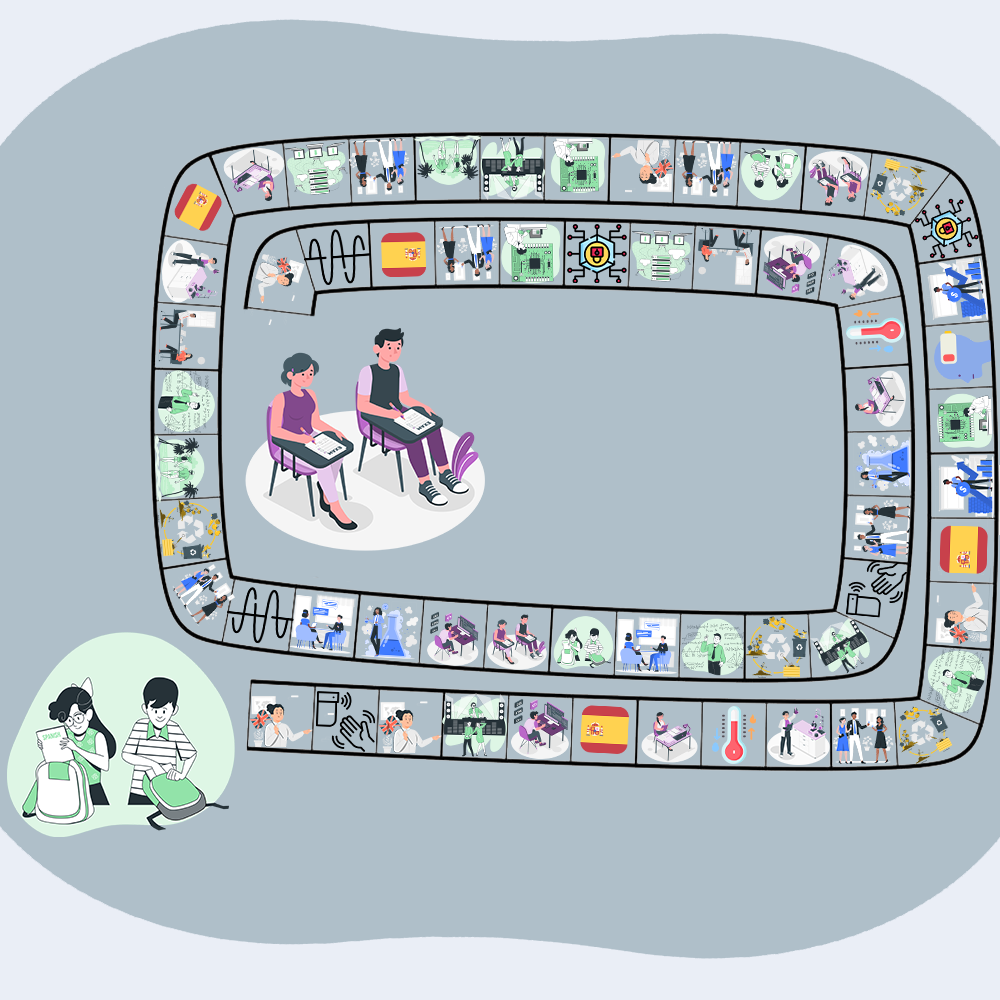
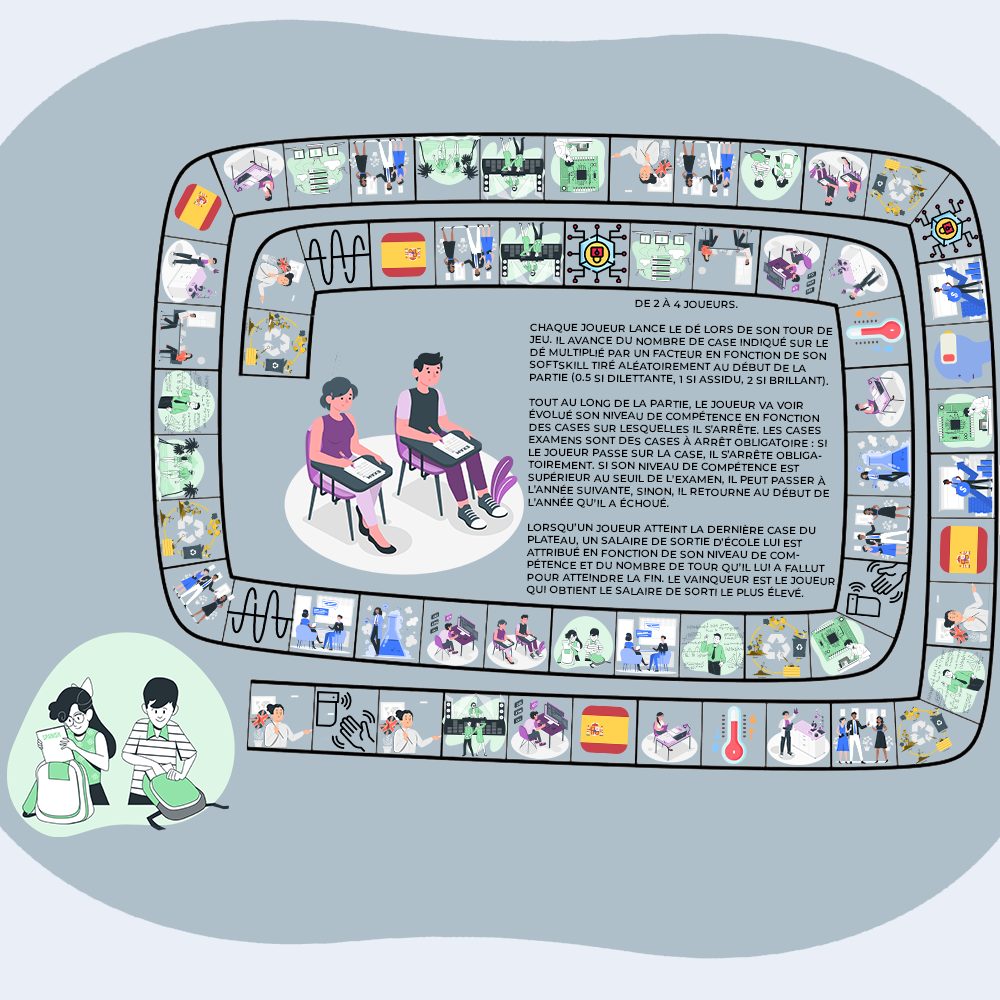
Plus aucun import de model dans le GameView

Changed region(s): [[0.217, 0.279, 0.837, 0.62], [0.496, 0.217, 0.589, 0.279], [0.806, 0.62, 0.868, 0.682]]

diff --git a/src/main/java/fr/ensicaen/ecole/genielogiciel/view/GameView.java b/src/main/java/fr/ensicaen/ecole/genielogiciel/view/GameView.java
@@ -1,6 +1,5 @@
 package fr.ensicaen.ecole.genielogiciel.view;
 
-import fr.ensicaen.ecole.genielogiciel.model.player.Player;
 import fr.ensicaen.ecole.genielogiciel.presenter.GamePresenter;
 import javafx.event.ActionEvent;
 import javafx.fxml.FXMLLoader;
@@ -88,6 +87,7 @@ public final class GameView{
     public Circle _tile61;
     public Circle _tile62;
     public Circle _tile63;
+    public Circle _tile64;
     public TextArea _characteristics;
     public Label _round;
     public Circle playerColor;
@@ -100,7 +100,7 @@ public final class GameView{
     private Circle[] _tabPlayer;
     private Circle[] _tabTile;
     private int _nbTurn = 0;
-    private static final int _nbCases = 64;
+    private static final int _nbCases = 65;
 
     public void initialize() {
         _tabTile = new Circle[_nbCases];
@@ -168,6 +168,7 @@ public final class GameView{
         _tabTile[61] = _tile61;
         _tabTile[62] = _tile62;
         _tabTile[63] = _tile63;
+        _tabTile[64] = _tile64;
 
         _tabX = new double[_nbCases];
         _tabY = new double[_nbCases];
@@ -230,13 +231,16 @@ public final class GameView{
     public void displayDice(int diceResult){
         _diceResult.setText(String.valueOf(diceResult));
     }
-    public void displayPlayerName(Player[] players){
-        _playerNickname.setText(players[_nbTurn].getName());
+    public void displayPlayerName(String[] playersName){
+        _playerNickname.setText(playersName[_nbTurn]);
     }
-    public void displayCharacteristics(Player[] players){
-        _characteristics.setText("Filière : " + players[_nbTurn].getFiliere() + "\n" + "Provenance : " + players[_nbTurn].getProvenance() + "\n" + "Softskill : " + players[_nbTurn].getSoftskill());
+    public void displayCharacteristics(String[] major, String[] origin, String[] softskill){
+        _characteristics.setText("Filière : " + major[_nbTurn] + "\n" + "Provenance : " + origin[_nbTurn] + "\n" + "Softskill : " + softskill[_nbTurn]);
     }
     public void displayTurn(int turn){
         _round.setText("Tour numéro : " + String.valueOf(turn));
+    }
+    public void createPlayer(){
+        _gamePresenter.createPlayer();
     }
 }

diff --git a/src/main/java/fr/ensicaen/ecole/genielogiciel/presenter/GamePresenter.java b/src/main/java/fr/ensicaen/ecole/genielogiciel/presenter/GamePresenter.java
@@ -12,6 +12,7 @@ public final class GamePresenter implements Observer{
     private int _nbTurn = 0;
     private int _turn = 0;
     private int _valueTurn = 0;
+    private final int _nbPlayer = 4;
 
     public GamePresenter(String nickName) {
         _model = new Model();
@@ -25,13 +26,13 @@ public final class GamePresenter implements Observer{
 
     public void runGameLoop() {
         System.out.println("Et c'est parti...");
-        if (_nbTurn > 3){
+        if (_nbTurn > (_nbPlayer - 1)){
             _nbTurn = 0;
         }
         if (_turn == 0){
             _model.startGame();
         }
-        if (_turn %4 == 0){
+        if (_turn %_nbPlayer == 0){
             _valueTurn++;
         }
         _model.playTurn(_nbTurn);
@@ -55,10 +56,27 @@ public final class GamePresenter implements Observer{
         for (int i = 0; i < _model.getNbPlayer(); i++){
             positions[i] = players[i].getPosition();
         }
+        String[] playersName = new String[_nbPlayer];
+        for (int i = 0; i < _nbPlayer; i++){
+            playersName[i] = _model.getPlayers()[i].getName();
+        }
+        String[] major = new String[_nbPlayer];
+        String[] origin = new String[_nbPlayer];
+        String[] softskill = new String[_nbPlayer];
+        for (int i = 0; i < _nbPlayer; i++){
+            major[i] = String.valueOf(_model.getPlayers()[i].getFiliere());
+            origin[i] = String.valueOf(_model.getPlayers()[i].getProvenance());
+            softskill[i] = String.valueOf(_model.getPlayers()[i].getSoftskill());
+        }
+
+
         _view.displayPlayer(positions);
         _view.displayDice(_model.getDiceResult());
-        _view.displayPlayerName(_model.getPlayers());
-        _view.displayCharacteristics(_model.getPlayers());
+        _view.displayPlayerName(playersName);
+        _view.displayCharacteristics(major, origin, softskill);
         _view.displayTurn(_valueTurn);
+    }
+    public void createPlayer(){
+        _model.createPlayer();
     }
 }

diff --git a/src/main/java/fr/ensicaen/ecole/genielogiciel/model/Model.java b/src/main/java/fr/ensicaen/ecole/genielogiciel/model/Model.java
@@ -15,7 +15,7 @@ public class Model implements Observable{
     private final Board _board;
     private final Tile[] _tiles;
     private int _turn;
-    private final int _nbCases = 63;
+    private final int _nbCases = 64;
     private List<Observer> _observers;
     private final int _nbPlayer = 4;
     private Dice _dice;
@@ -83,6 +83,9 @@ public class Model implements Observable{
         }
         /*_tiles[_players[playerIndex].getPosition()].appliquerEffet(_players[playerIndex]);*/
         System.out.println(_players[playerIndex].getPosition());
+    }
+    public void createPlayer(){
+
     }
 
     public String getNickname() {

diff --git a/src/main/java/fr/ensicaen/ecole/genielogiciel/presenter/LoginPresenter.java b/src/main/java/fr/ensicaen/ecole/genielogiciel/presenter/LoginPresenter.java
@@ -33,6 +33,7 @@ public final class LoginPresenter implements Observer{
         view.setPresenter(gamePresenter);
         gamePresenter.setView(view);
         view.show();
+        view.createPlayer();
     }
 
     @Override

diff --git a/src/main/java/fr/ensicaen/ecole/genielogiciel/view/LoginView.java b/src/main/java/fr/ensicaen/ecole/genielogiciel/view/LoginView.java
@@ -93,5 +93,9 @@ public class LoginView{
     private void launchGame() {
         _presenter.launchGame(_nickName.getText());
     }
+    @FXML
+    private void addPlayer(){
+
+    }
 
 }
